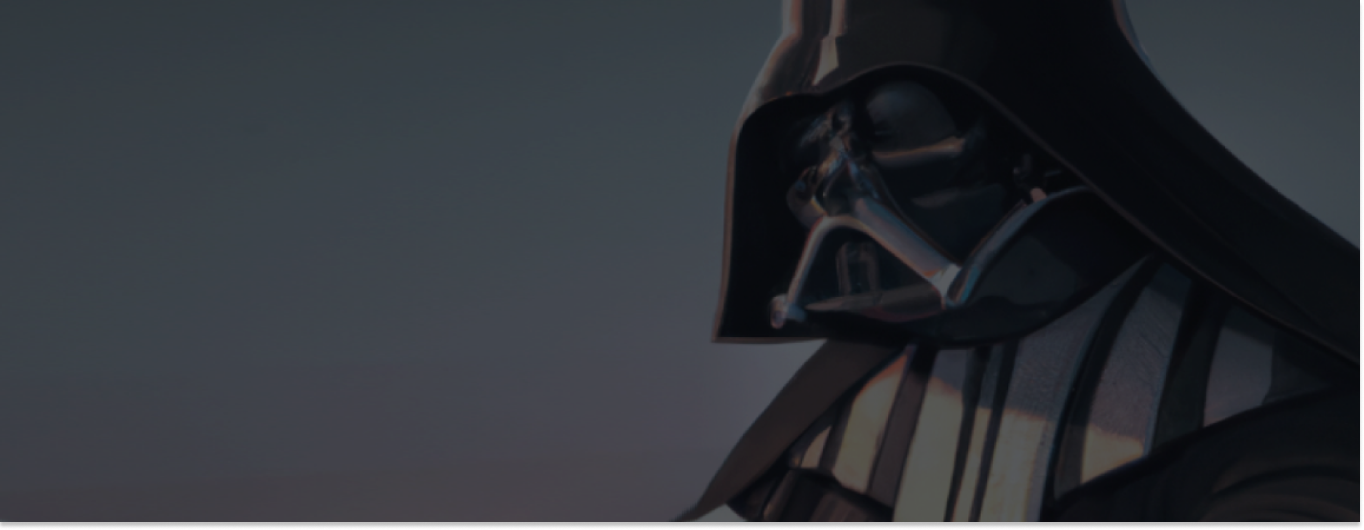
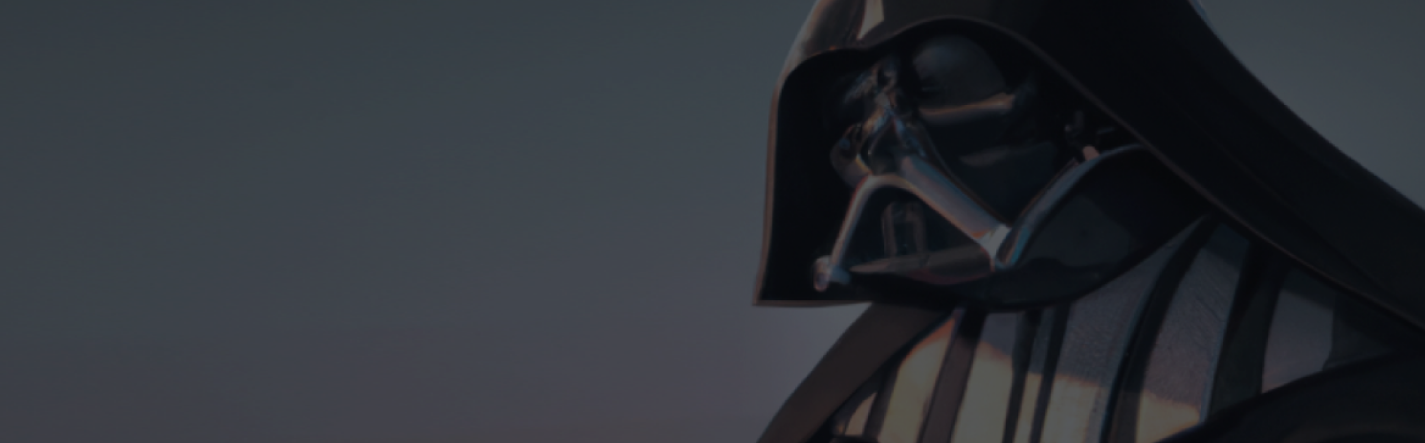
implementación de iconos y ajustes en sección home

diff --git a/src/components/Home/Home.js b/src/components/Home/Home.js
@@ -1,97 +1,21 @@
-import React, { Component}  from "react";
+import React from "react";
 import './Home.css';
-import 'bootstrap/dist/css/bootstrap.min.css';
-import {
-  Carousel,
-  CarouselItem,
-  CarouselControl,
-  CarouselIndicators,
-  CarouselCaption
-} from 'reactstrap';
+import BannerHome from './Banner';
 
-const items = [
-  {
-    src: require('./imagebanner.png'),
-    altText: '',
-    caption: ''
-  },
-  {
-    src: require('./Section.png'),    
-    altText: '',
-    caption: ''
-  },
-  {
-    src: require('./imagebanner.png'),    
-    altText: '',
-    caption: ''
-  }
-];
 
-class Home extends Component {
-  constructor(props) {
-    super(props);
-    this.state = { activeIndex: 0 };
-    this.next = this.next.bind(this);
-    this.previous = this.previous.bind(this);
-    this.goToIndex = this.goToIndex.bind(this);
-    this.onExiting = this.onExiting.bind(this);
-    this.onExited = this.onExited.bind(this);
-  }
 
-  onExiting() {
-    this.animating = true;
-  }
 
-  onExited() {
-    this.animating = false;
-  }
-
-  next() {
-    if (this.animating) return;
-    const nextIndex = this.state.activeIndex === items.length - 1 ? 0 : this.state.activeIndex + 1;
-    this.setState({ activeIndex: nextIndex });
-  }
-
-  previous() {
-    if (this.animating) return;
-    const nextIndex = this.state.activeIndex === 0 ? items.length - 1 : this.state.activeIndex - 1;
-    this.setState({ activeIndex: nextIndex });
-  }
-
-  goToIndex(newIndex) {
-    if (this.animating) return;
-    this.setState({ activeIndex: newIndex });
-  }
-
-  render() {
-    const { activeIndex } = this.state;
-
-    const slides = items.map((item) => {
-      return (
-        <CarouselItem
-          onExiting={this.onExiting}
-          onExited={this.onExited}
-          key={item.src}
-        >
-          <img src={item.src} alt={item.altText} className="carru"  />
-          <CarouselCaption captionText={item.caption} captionHeader={item.caption} />
-        </CarouselItem>
-      );
-    });
+const Home = () => {    
 
     return (
-      <Carousel
-        activeIndex={activeIndex}
-        next={this.next}
-        previous={this.previous}
-      >
-        <CarouselIndicators items={items} activeIndex={activeIndex} onClickHandler={this.goToIndex} />
-        {slides}
-        <CarouselControl direction="prev" directionText="Previous" onClickHandler={this.previous} style={{color: "black"}}/>
-        <CarouselControl direction="next" directionText="Next" onClickHandler={this.next} />
-      </Carousel>
+        <div className='home'>
+            <div className="bannerhome"><BannerHome /></div>
+            <div className="sectionone">
+              <span className="titlesection">¡Conoce lo que <br/> &ensp;&emsp;tenemos para ti</span>  
+            </div>
+        </div>
+
     );
-  }
 }
 
 export default Home;

diff --git a/src/components/Home/Banner.js b/src/components/Home/Banner.js
@@ -1,0 +1,97 @@
+import React, { Component}  from "react";
+import './Home.css';
+import 'bootstrap/dist/css/bootstrap.min.css';
+import {
+  Carousel,
+  CarouselItem,
+  CarouselControl,
+  CarouselIndicators,
+  CarouselCaption
+} from 'reactstrap';
+
+const items = [
+  {
+    src: require('./imagebanner.png'),
+    altText: '',
+    caption: ''
+  },
+  {
+    src: require('./Section.png'),    
+    altText: '',
+    caption: ''
+  },
+  {
+    src: require('./imagebanner.png'),    
+    altText: '',
+    caption: ''
+  }
+];
+
+class BannerHome extends Component {
+  constructor(props) {
+    super(props);
+    this.state = { activeIndex: 0 };
+    this.next = this.next.bind(this);
+    this.previous = this.previous.bind(this);
+    this.goToIndex = this.goToIndex.bind(this);
+    this.onExiting = this.onExiting.bind(this);
+    this.onExited = this.onExited.bind(this);
+  }
+
+  onExiting() {
+    this.animating = true;
+  }
+
+  onExited() {
+    this.animating = false;
+  }
+
+  next() {
+    if (this.animating) return;
+    const nextIndex = this.state.activeIndex === items.length - 1 ? 0 : this.state.activeIndex + 1;
+    this.setState({ activeIndex: nextIndex });
+  }
+
+  previous() {
+    if (this.animating) return;
+    const nextIndex = this.state.activeIndex === 0 ? items.length - 1 : this.state.activeIndex - 1;
+    this.setState({ activeIndex: nextIndex });
+  }
+
+  goToIndex(newIndex) {
+    if (this.animating) return;
+    this.setState({ activeIndex: newIndex });
+  }
+
+  render() {
+    const { activeIndex } = this.state;
+
+    const slides = items.map((item) => {
+      return (
+        <CarouselItem
+          onExiting={this.onExiting}
+          onExited={this.onExited}
+          key={item.src}
+        >
+          <img src={item.src} alt={item.altText} className="carru"  />
+          <CarouselCaption captionText={item.caption} captionHeader={item.caption} />
+        </CarouselItem>
+      );
+    });
+
+    return (
+      <Carousel
+        activeIndex={activeIndex}
+        next={this.next}
+        previous={this.previous}
+      >
+        <CarouselIndicators items={items} activeIndex={activeIndex} onClickHandler={this.goToIndex} />
+        {slides}
+        <CarouselControl direction="prev" directionText="Previous" onClickHandler={this.previous} style={{color: "black"}}/>
+        <CarouselControl direction="next" directionText="Next" onClickHandler={this.next} />
+      </Carousel>
+    );
+  }
+}
+
+export default BannerHome;

diff --git a/src/components/menu/Navmenu.js b/src/components/menu/Navmenu.js
@@ -1,6 +1,10 @@
 import React from "react";
 import './Navmenu.css';
 import logoimperial from './logo-imperial.png';
+import { faMagnifyingGlass } from "@fortawesome/free-solid-svg-icons";
+import { faUser } from "@fortawesome/free-solid-svg-icons";
+import { faCartShopping } from "@fortawesome/free-solid-svg-icons";
+import { FontAwesomeIcon } from "@fortawesome/react-fontawesome";
 
 
 
@@ -34,9 +38,13 @@ const Navmenu = () => {
                         </div>
                         <div className="iconosnav">
                             <ul>
-                                <li>lupa</li>
-                                <li>carrito</li>
-                                <li>user</li>                            
+                                <li>
+                                    <div className='search'>   
+                                        <FontAwesomeIcon icon={faMagnifyingGlass} />
+                                     </div>
+                                </li>                                
+                                <li><FontAwesomeIcon icon={faUser} /></li>     
+                                <li><FontAwesomeIcon icon={faCartShopping} /></li>                       
                             </ul>
                         </div>
                         

diff --git a/src/components/Home/Home.css b/src/components/Home/Home.css
@@ -1,19 +1,44 @@
 .carru{
     width: 100%;
-    height: 40%;
+    height: 664px;
     margin: 0 0;
 }
 
+.carousel-control-prev {
+    display: none;
+}
+
 .carousel-control-prev-icon {
-    color: black;
-    background-color: black;
+    color: transparent;
+}
+
+.carousel-control-next {
+    display: none;
 }
 
 .carousel-control-next-icon {
-    background-color: black;
+    display: none;
 }
 
 .h3, h3 {
     font-size: 1.75rem;
     color: black;
+}
+
+.sectionone{
+    background-image: url("Section.png");
+    height: 443px;
+}
+
+.titlesection{
+display: block;
+text-align-last: left;
+margin-left: 1em;
+font-family: 'Roboto Condensed';
+font-style: normal;
+font-weight: bolder;
+font-size: 64px;
+line-height: 75px;
+letter-spacing: -0.02em;
+color: #C9C9C6;
 }

diff --git a/public/index.html b/public/index.html
@@ -5,6 +5,11 @@
     <link rel="icon" href="%PUBLIC_URL%/favicon.ico" />
     <meta name="viewport" content="width=device-width, initial-scale=1" />
     <meta name="theme-color" content="#000000" />
+    <link rel="preconnect" href="https://fonts.googleapis.com">
+    <link rel="preconnect" href="https://fonts.gstatic.com" crossorigin>
+    <link href="https://fonts.googleapis.com/css2?family=Inter:wght@400;500&display=swap" rel="stylesheet">
+    <link rel="preconnect" href="https://fonts.gstatic.com" crossorigin>
+    <link href="https://fonts.googleapis.com/css2?family=Inter:wght@400;500&family=Roboto+Condensed:wght@700&display=swap" rel="stylesheet">
     <meta
       name="description"
       content="Web site created using create-react-app"

diff --git a/src/components/menu/Navmenu.css b/src/components/menu/Navmenu.css
@@ -26,16 +26,17 @@
 
 .menutop{
     color: #CCCCCC;
-    text-align: right;
-    text-align-last: right;
 }
 
 .menubottom{
+    margin-top: 2%;
     color: #ffffff;
 }
 
 .navigatortop{
     text-align-last: right;
+    margin-right: 5%;
+    margin-top: 1%;
 }
 
 .navigatortop ul{
@@ -46,6 +47,7 @@
 
 .navigatorbottom {
     display: flex;
+    margin-top: -1%;
 }
 
 .navigatorbottom ul{
@@ -62,7 +64,7 @@
 
 .itemmarvel{
     position: absolute;
-    margin-top: -12%;
+    margin-top: -11%;
     padding: 60px 0 40px 10px ;
     background-color:#EF131E;
 }
@@ -70,4 +72,6 @@
     position:absolute;
     right: 0;
     float: left;
+    margin-right: 5%;
+    size: 20px;
 }
